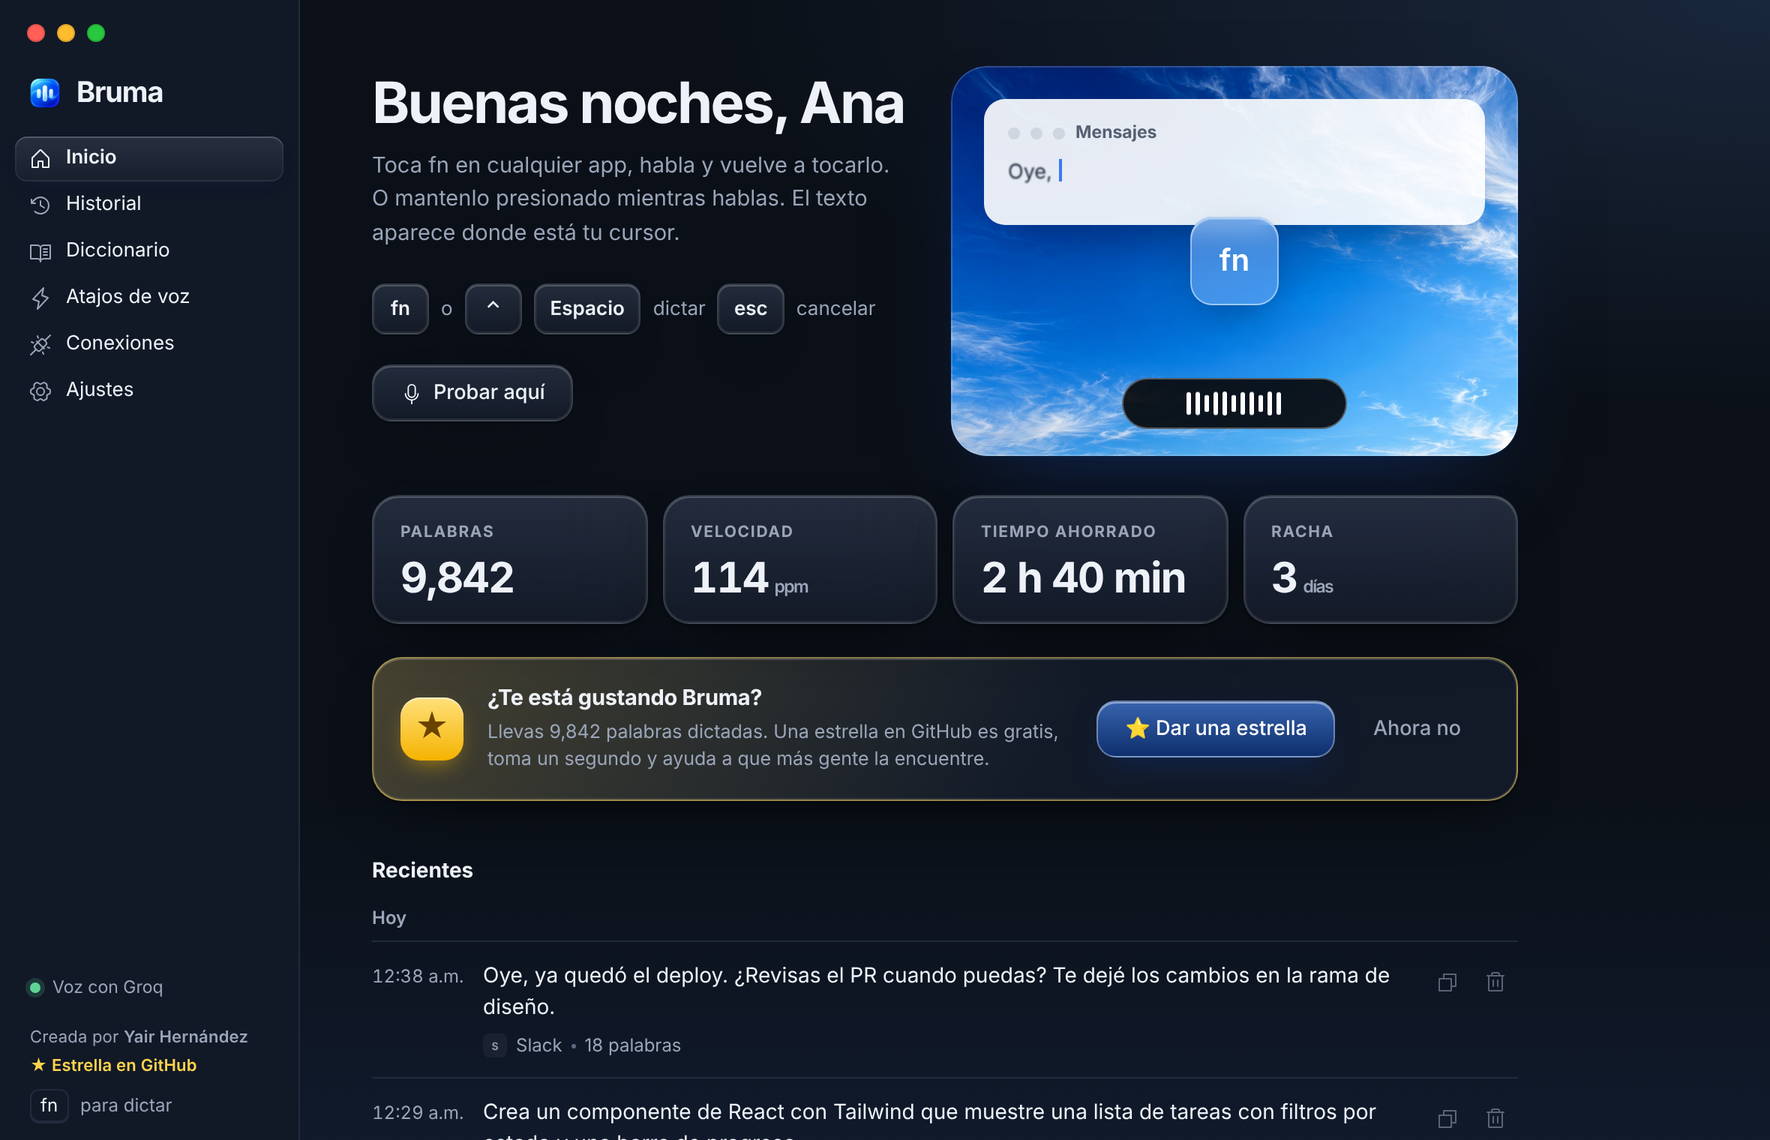
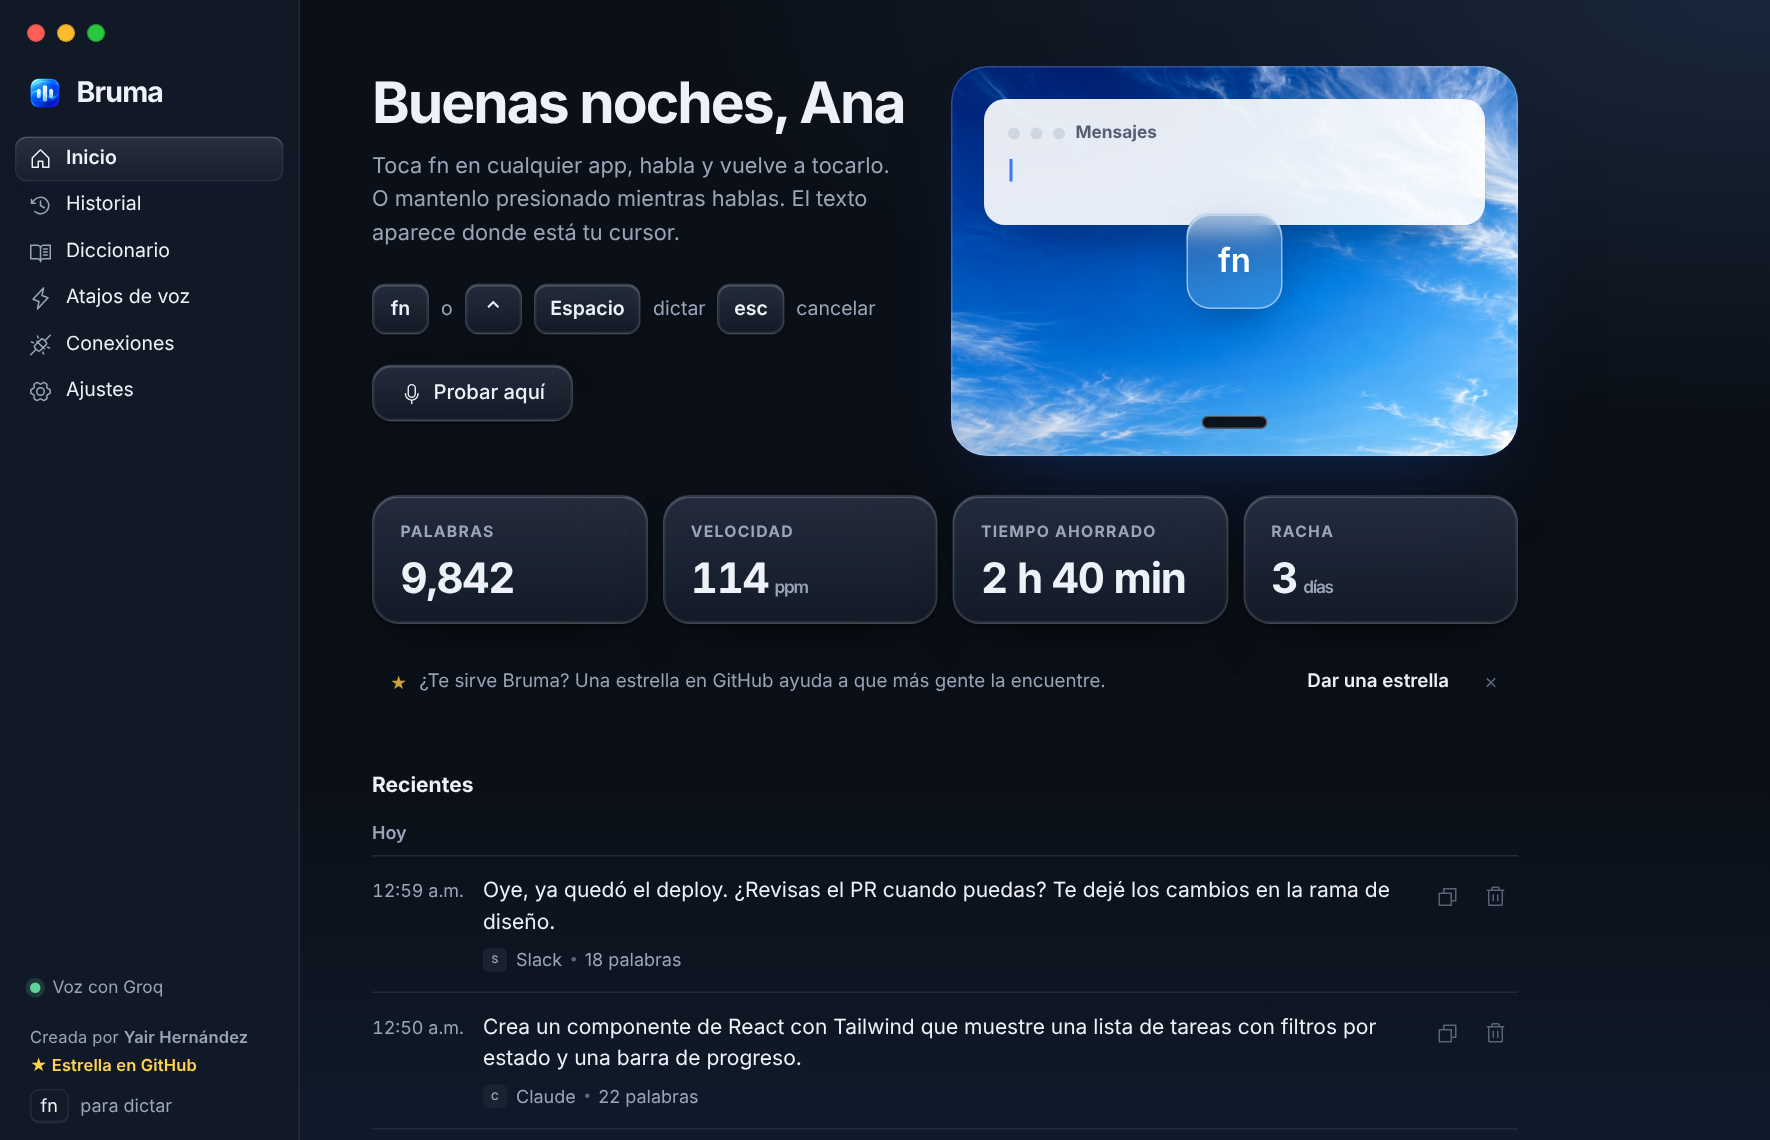
Quieter star note on Home and refreshed screenshots

diff --git a/src/theme.css b/src/theme.css
@@ -279,10 +279,13 @@ input:checked + .switch { background: var(--sky); }
 [data-theme='dark'] .credit-star { color: #ffd34d; }
 .stats dd { white-space: nowrap; font-size: 28px; }
 
-/* A kind, one-time request for a GitHub star. */
-.star-card { display: grid; grid-template-columns: auto minmax(0, 1fr) auto; align-items: center; gap: 16px; margin-top: 22px; padding: 16px 18px; border-radius: 20px; background: linear-gradient(120deg, color-mix(in srgb, #ffd34d 22%, var(--surface)), var(--surface) 60%); border: 1px solid color-mix(in srgb, #ffd34d 45%, var(--glass-line)); box-shadow: var(--glass-rim), var(--glass-drop); }
-.star-card-icon { display: grid; place-items: center; width: 42px; height: 42px; border-radius: 13px; background: linear-gradient(180deg, #ffe07a, #f5b301); color: #6b4300; font-size: 22px; box-shadow: inset 0 1px 0 rgba(255,255,255,.6), 0 6px 16px -6px rgba(245,179,1,.7); }
-.star-card-title { margin: 0; font-size: 14.5px; font-weight: 700; letter-spacing: -.01em; }
-.star-card-text { margin: 3px 0 0; color: var(--muted); font-size: 12.5px; line-height: 1.5; }
-.star-card-actions { display: flex; gap: 6px; flex-wrap: wrap; justify-content: flex-end; }
-@media (max-width: 760px) { .star-card { grid-template-columns: auto 1fr; } .star-card-actions { grid-column: 1 / -1; justify-content: flex-start; } }
+/* A quiet, one-time request for a GitHub star: one line, no card. */
+.star-note { display: flex; align-items: center; gap: 8px; margin-top: 18px; padding: 8px 6px 8px 12px; border-radius: 12px; color: var(--muted); font-size: 12.5px; }
+.star-note:hover { background: var(--surface-hover); }
+.star-note p { margin: 0; min-width: 0; flex: 1; }
+.star-note-icon { flex: none; font-size: 11px; color: color-mix(in srgb, #e3a400 70%, var(--muted)); }
+.star-note-link { flex: none; padding: 4px 8px; border: 0; border-radius: 8px; background: none; color: var(--text); font: inherit; font-weight: 600; cursor: pointer; }
+.star-note-link:hover { background: var(--chip); }
+.star-note-close { display: grid; place-items: center; flex: none; width: 24px; height: 24px; padding: 0; border: 0; border-radius: 7px; background: none; color: var(--faint); cursor: pointer; }
+.star-note-close:hover { color: var(--text); background: var(--chip); }
+

diff --git a/src/components/Home.tsx b/src/components/Home.tsx
@@ -87,13 +87,13 @@ export default function Home({ settings, voice, history, ready, isDemo, onStart,
       <div><dt>Racha</dt><dd>{figures.streak}<small>{figures.streak === 1 ? 'día' : 'días'}</small></dd></div>
     </dl>
 
-    {showStar && <aside className="star-card" aria-label="Apoya a Bruma">
-      <span className="star-card-icon" aria-hidden="true">★</span>
-      <div><p className="star-card-title">¿Te está gustando Bruma?</p><p className="star-card-text">Llevas {number(figures.words)} palabras dictadas. Una estrella en GitHub es gratis, toma un segundo y ayuda a que más gente la encuentre.</p></div>
-      <div className="star-card-actions">
-        <button type="button" className="button-primary is-ink" onClick={() => { openRepo(); dismissStar(); }}>⭐ Dar una estrella</button>
-        <button type="button" className="button-secondary" onClick={dismissStar}>Ahora no</button>
-      </div>
+    {showStar && <aside className="star-note" aria-label="Apoya a Bruma">
+      <span className="star-note-icon" aria-hidden="true">★</span>
+      <p>¿Te sirve Bruma? Una estrella en GitHub ayuda a que más gente la encuentre.</p>
+      <button type="button" className="star-note-link" onClick={() => { openRepo(); dismissStar(); }}>Dar una estrella</button>
+      <button type="button" className="star-note-close" onClick={dismissStar} aria-label="Ocultar">
+        <svg viewBox="0 0 16 16" width="10" height="10" aria-hidden="true"><path d="m4 4 8 8M12 4l-8 8" stroke="currentColor" strokeWidth="1.8" strokeLinecap="round" /></svg>
+      </button>
     </aside>}
 
     <section className="section" aria-labelledby="recent-heading">
